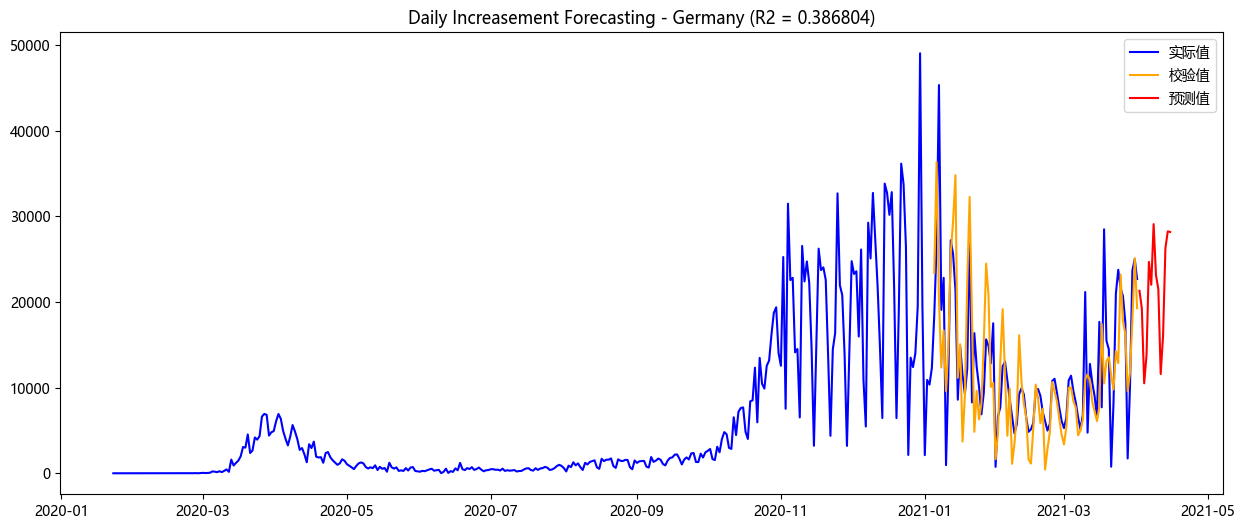
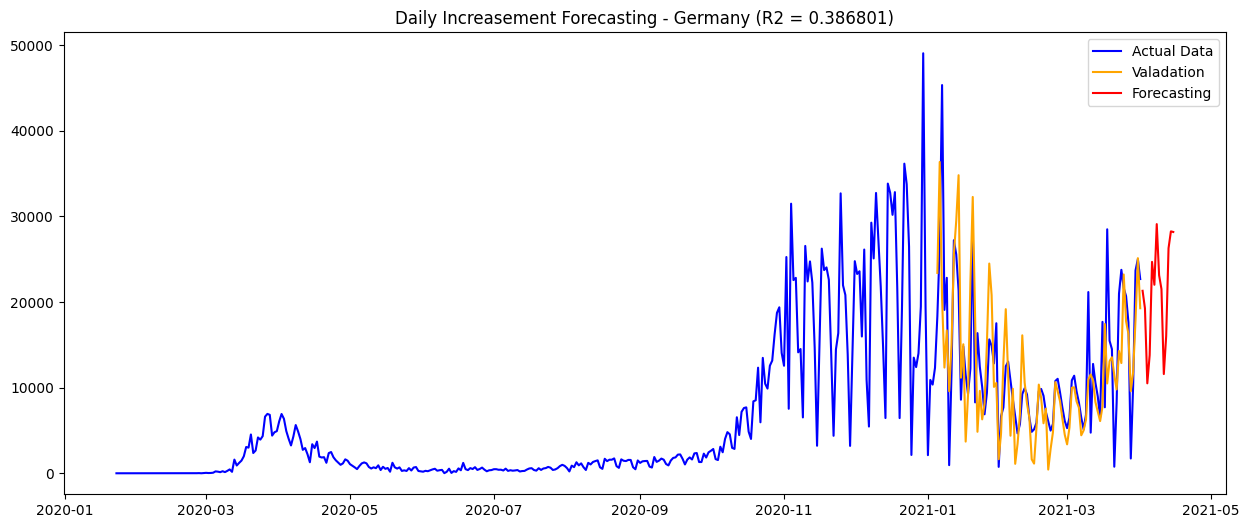
update workflow os

diff --git a/covid.py b/covid.py
@@ -52,13 +52,13 @@ def draw(name, data):
     # 绘图呈现
     plt.figure(figsize=(15, 6))
 
-    plt.plot(data.index, data, label="实际值", color="blue")
-    plt.plot(validating.index, validating, label="校验值", color="orange")
-    plt.plot(forecasting.index, forecasting, label="预测值", color="red")
+    plt.plot(data.index, data, label="Actual Data", color="blue")
+    plt.plot(validating.index, validating, label="Valadation", color="orange")
+    plt.plot(forecasting.index, forecasting, label="Forecasting", color="red")
     # plt.fill_between(forecasting.index, pred_ci[:, 0], pred_ci[:, 1], color="black", alpha=.25)
 
     plt.legend()
-    plt.rcParams["font.sans-serif"] = ["Microsoft YaHei"]
+    # plt.rcParams["font.sans-serif"] = ["Microsoft YaHei"]
     plt.title(f"Daily Increasement Forecasting - {name} (R2 = {r2:.6f})")
     plt.savefig(os.path.join("figures", f"covid-{name.replace(' ', '')}.png"), bbox_inches="tight")
 
